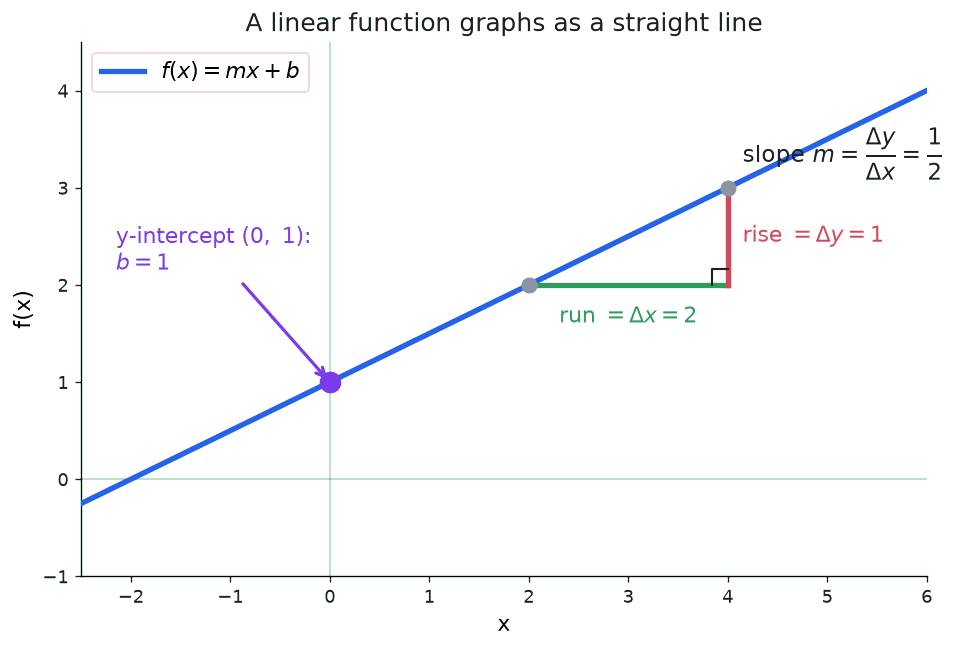
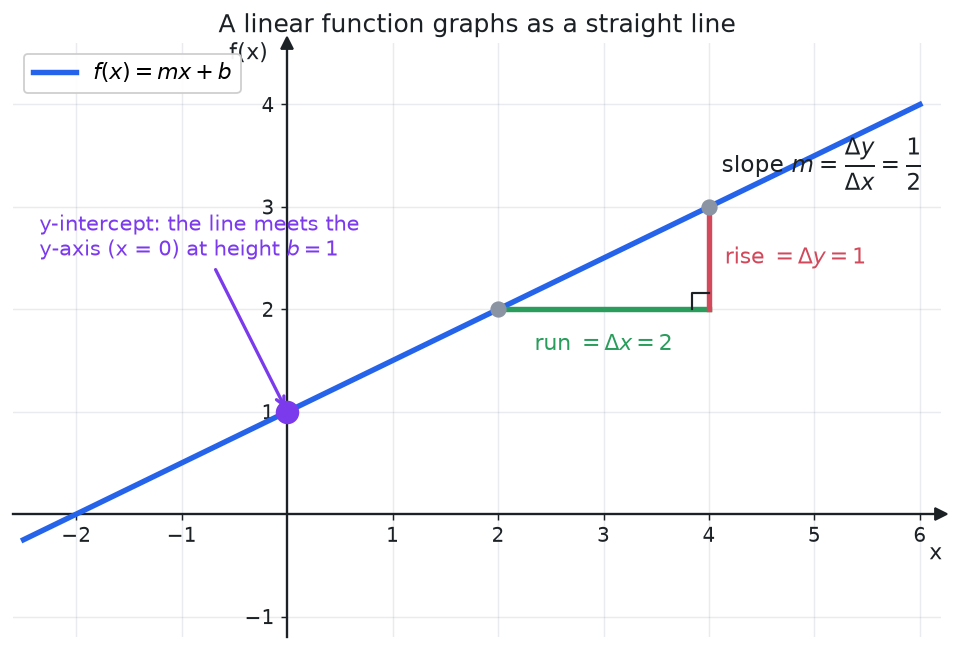
Fix linear-slope-intercept: draw axes through the origin
The figure boxed the plot, so the numbered vertical axis sat at x=-2.5 while
the true y-axis (x=0) was only a faint interior line. That made the intercept
dot look like it floated mid-plot instead of sitting on the y-axis, and where
the line met the labeled left edge it was near y=-0.25, not 1. Redrew with
spines crossing at the origin (textbook style) so the numbered y-axis IS the
line x=0 and the intercept dot lands on it at height 1. Reworded the callout
and alt text to say the line meets the y-axis at height b=1.

diff --git a/quartz/content/linear-functions.md b/quartz/content/linear-functions.md
@@ -43,7 +43,7 @@ In the standard sense, a linear function has degree exactly 1 (a nonzero slope).
 
 When graphed, a linear function will create a straight line.
 
-![The line f(x) = mx + b with b = 1, drawn through its y-intercept at (0, 1), which is marked with a dot. A rise-over-run triangle sits on the line between the points (2, 2) and (4, 3): a green horizontal run of delta x = 2 and a red vertical rise of delta y = 1 meet at a right angle, giving slope m = delta y over delta x = 1/2](./media/linear-slope-intercept.png)
+![The line f(x) = mx + b with b = 1, on axes that cross at the origin so the vertical y-axis is the line x = 0. The line meets that y-axis at height 1, where a dot marks the y-intercept (0, 1). A rise-over-run triangle sits on the line between the points (2, 2) and (4, 3): a green horizontal run of delta x = 2 and a red vertical rise of delta y = 1 meet at a right angle, giving slope m = delta y over delta x = 1/2](./media/linear-slope-intercept.png)
 
 ## Linear Equation Forms
 